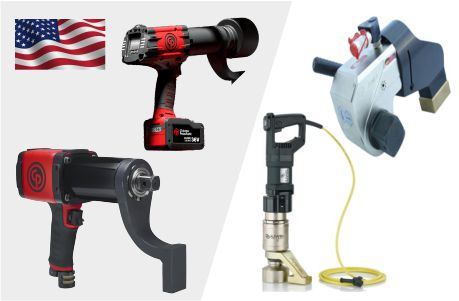
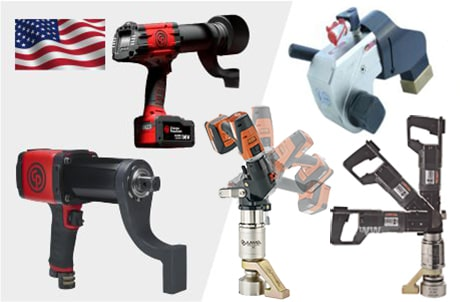
se añadio  imafagenes correctas

diff --git a/torquimetros-de-golpe-antishispa.html b/torquimetros-de-golpe-antishispa.html
@@ -254,7 +254,9 @@
 			<h2 class="toquimetro-title">TORQUÍMETRO DE GOLPE ANTICHISPA</h2>
 			<div class="main-toquimetro__subtitle" id="main-toquimetro__subtitle">
 				<p>
-					Se utiliza para aplicar con precisión un par de torsión específico a sujetadores como pernos y tuercas en circunstancias determinadas que producen chispas. El torquímetro posee un mango de plástico para un agarre cómodo.
+					Se utiliza para aplicar con precisión un par de torsión específico a sujetadores como pernos y tuercas en
+					circunstancias determinadas que producen chispas. El torquímetro posee un mango de plástico para un agarre
+					cómodo.
 				</p>
 			</div>
 			<div class="slider-donwload">
@@ -417,6 +419,9 @@
 					<ul class="quick_link">
 						<li>
 							<a href="torquimetros-de-golpe.html"><i class="fa fa-chevron-right"></i>DE GOLPE</a>
+						</li>
+						<li>
+							<a href="torquimetros-de-golpe-antishispa.html"><i class="fa fa-chevron-right"></i>DE GOLPE ANTICHISPA</a>
 						</li>
 						<li>
 							<a href="torquimetros-de-reloj.html"><i class="fa fa-chevron-right"></i>DE RELOJ O AGUJA</a>

diff --git a/llave-de-control-de-torque-a-bateria.html b/llave-de-control-de-torque-a-bateria.html
@@ -260,7 +260,8 @@
 					<!-- <img class="mySlides"
 						src="images/llave/llaves control de torque inalambrica/llaves control de torque inalambrica b.jpg" /> -->
 					<img class="mySlides"
-						src="images/llave/llaves control de torque inalambrica/llaves control de torque inalambrica c.jpg" style="display: block" />
+						src="images/llave/llaves control de torque inalambrica/llaves control de torque inalambrica c.jpg"
+						style="display: block" />
 					<!-- <img class="mySlides"
 						src="images/llave/llaves control de torque inalambrica/llaves control de torque inalambrica d.jpg" /> -->
 
@@ -387,6 +388,9 @@
 					<ul class="quick_link">
 						<li>
 							<a href="torquimetros-de-golpe.html"><i class="fa fa-chevron-right"></i>DE GOLPE</a>
+						</li>
+						<li>
+							<a href="torquimetros-de-golpe-antishispa.html"><i class="fa fa-chevron-right"></i>DE GOLPE ANTICHISPA</a>
 						</li>
 						<li>
 							<a href="torquimetros-de-reloj.html"><i class="fa fa-chevron-right"></i>DE RELOJ O AGUJA</a>

diff --git a/llave-de-control-de-torque-inalambrica.html b/llave-de-control-de-torque-inalambrica.html
@@ -457,6 +457,9 @@ torque hidr�ulicas Exe super max" /></a>
 							<a href="torquimetros-de-golpe.html"><i class="fa fa-chevron-right"></i>DE GOLPE</a>
 						</li>
 						<li>
+							<a href="torquimetros-de-golpe-antishispa.html"><i class="fa fa-chevron-right"></i>DE GOLPE ANTICHISPA</a>
+						</li>
+						<li>
 							<a href="torquimetros-de-reloj.html"><i class="fa fa-chevron-right"></i>DE RELOJ O AGUJA</a>
 						</li>
 						<!--<li><a href="torquimetros-de-reloj-con-sonido.html"><i class="fa fa-chevron-right"></i>DE RELOJ CON SONIDO</a></li>-->

diff --git a/busqueda.html b/busqueda.html
@@ -305,6 +305,9 @@
 							<a href="torquimetros-de-golpe.html"><i class="fa fa-chevron-right"></i>DE GOLPE</a>
 						</li>
 						<li>
+							<a href="torquimetros-de-golpe-antishispa.html"><i class="fa fa-chevron-right"></i>DE GOLPE ANTICHISPA</a>
+						</li>
+						<li>
 							<a href="torquimetros-de-golpe.html"><i class="fa fa-chevron-right"></i>DE RELOJ O AGUJA</a>
 						</li>
 						<!--<li><a href="torquimetros-de-reloj-con-sonido.html"><i class="fa fa-chevron-right"></i>DE RELOJ CON SONIDO</a></li>-->

diff --git a/contacto.html b/contacto.html
@@ -335,6 +335,9 @@
 							<a href="torquimetros-de-golpe.html"><i class="fa fa-chevron-right"></i>DE GOLPE</a>
 						</li>
 						<li>
+							<a href="torquimetros-de-golpe-antishispa.html"><i class="fa fa-chevron-right"></i>DE GOLPE ANTICHISPA</a>
+						</li>
+						<li>
 							<a href="torquimetros-de-reloj.html"><i class="fa fa-chevron-right"></i>DE RELOJ O AGUJA</a>
 						</li>
 						<!--<li><a href="torquimetros-de-reloj-con-sonido.html"><i class="fa fa-chevron-right"></i>DE RELOJ CON SONIDO</a></li>-->

diff --git a/fotos-torqueperu.html b/fotos-torqueperu.html
@@ -358,6 +358,9 @@
 							<a href="torquimetros-de-golpe.html"><i class="fa fa-chevron-right"></i>DE GOLPE</a>
 						</li>
 						<li>
+							<a href="torquimetros-de-golpe-antishispa.html"><i class="fa fa-chevron-right"></i>DE GOLPE ANTICHISPA</a>
+						</li>
+						<li>
 							<a href="torquimetros-de-reloj.html"><i class="fa fa-chevron-right"></i>DE RELOJ O AGUJA</a>
 						</li>
 						<!--<li><a href="torquimetros-de-reloj-con-sonido.html"><i class="fa fa-chevron-right"></i>DE RELOJ CON SONIDO</a></li>-->

diff --git a/index.html b/index.html
@@ -560,6 +560,9 @@
 							<a href="torquimetros-de-golpe.html"><i class="fa fa-chevron-right"></i>DE GOLPE</a>
 						</li>
 						<li>
+							<a href="torquimetros-de-golpe-antishispa.html"><i class="fa fa-chevron-right"></i>DE GOLPE ANTICHISPA</a>
+						</li>
+						<li>
 							<a href="torquimetros-de-reloj.html"><i class="fa fa-chevron-right"></i>DE RELOJ O AGUJA</a>
 						</li>
 						<!--<li><a href="torquimetros-de-reloj-con-sonido.html"><i class="fa fa-chevron-right"></i>DE RELOJ CON SONIDO</a></li>-->

diff --git a/llave-de-control-de-torque-electrica.html b/llave-de-control-de-torque-electrica.html
@@ -405,6 +405,9 @@
 							<a href="torquimetros-de-golpe.html"><i class="fa fa-chevron-right"></i>DE GOLPE</a>
 						</li>
 						<li>
+							<a href="torquimetros-de-golpe-antishispa.html"><i class="fa fa-chevron-right"></i>DE GOLPE ANTICHISPA</a>
+						</li>
+						<li>
 							<a href="torquimetros-de-reloj.html"><i class="fa fa-chevron-right"></i>DE RELOJ O AGUJA</a>
 						</li>
 						<!--<li><a href="torquimetros-de-reloj-con-sonido.html"><i class="fa fa-chevron-right"></i>DE RELOJ CON SONIDO</a></li>-->

diff --git a/llave-de-control-de-torque-hidraulica.html b/llave-de-control-de-torque-hidraulica.html
@@ -429,6 +429,9 @@
 							<a href="torquimetros-de-golpe.html"><i class="fa fa-chevron-right"></i>DE GOLPE</a>
 						</li>
 						<li>
+							<a href="torquimetros-de-golpe-antishispa.html"><i class="fa fa-chevron-right"></i>DE GOLPE ANTICHISPA</a>
+						</li>
+						<li>
 							<a href="torquimetros-de-reloj.html"><i class="fa fa-chevron-right"></i>DE RELOJ O AGUJA</a>
 						</li>
 						<!--<li><a href="torquimetros-de-reloj-con-sonido.html"><i class="fa fa-chevron-right"></i>DE RELOJ CON SONIDO</a></li>-->

diff --git a/llave-de-control-de-torque-neumatica.html b/llave-de-control-de-torque-neumatica.html
@@ -387,6 +387,9 @@
 							<a href="torquimetros-de-golpe.html"><i class="fa fa-chevron-right"></i>DE GOLPE</a>
 						</li>
 						<li>
+							<a href="torquimetros-de-golpe-antishispa.html"><i class="fa fa-chevron-right"></i>DE GOLPE ANTICHISPA</a>
+						</li>
+						<li>
 							<a href="torquimetros-de-reloj.html"><i class="fa fa-chevron-right"></i>DE RELOJ O AGUJA</a>
 						</li>
 						<!--<li><a href="torquimetros-de-reloj-con-sonido.html"><i class="fa fa-chevron-right"></i>DE RELOJ CON SONIDO</a></li>-->

diff --git a/llave-de-control.html b/llave-de-control.html
@@ -398,6 +398,9 @@
 							<a href="torquimetros-de-golpe.html"><i class="fa fa-chevron-right"></i>DE GOLPE</a>
 						</li>
 						<li>
+							<a href="torquimetros-de-golpe-antishispa.html"><i class="fa fa-chevron-right"></i>DE GOLPE ANTICHISPA</a>
+						</li>
+						<li>
 							<a href="torquimetros-de-reloj.html"><i class="fa fa-chevron-right"></i>DE RELOJ O AGUJA</a>
 						</li>
 						<!--<li><a href="torquimetros-de-reloj-con-sonido.html"><i class="fa fa-chevron-right"></i>DE RELOJ CON SONIDO</a></li>-->

diff --git a/multiplicador-de-torque.html b/multiplicador-de-torque.html
@@ -440,6 +440,9 @@
 							<a href="torquimetros-de-golpe.html"><i class="fa fa-chevron-right"></i>DE GOLPE</a>
 						</li>
 						<li>
+							<a href="torquimetros-de-golpe-antishispa.html"><i class="fa fa-chevron-right"></i>DE GOLPE ANTICHISPA</a>
+						</li>
+						<li>
 							<a href="torquimetros-de-reloj.html"><i class="fa fa-chevron-right"></i>DE RELOJ O AGUJA</a>
 						</li>
 						<!--<li><a href="torquimetros-de-reloj-con-sonido.html"><i class="fa fa-chevron-right"></i>DE RELOJ CON SONIDO</a></li>-->
